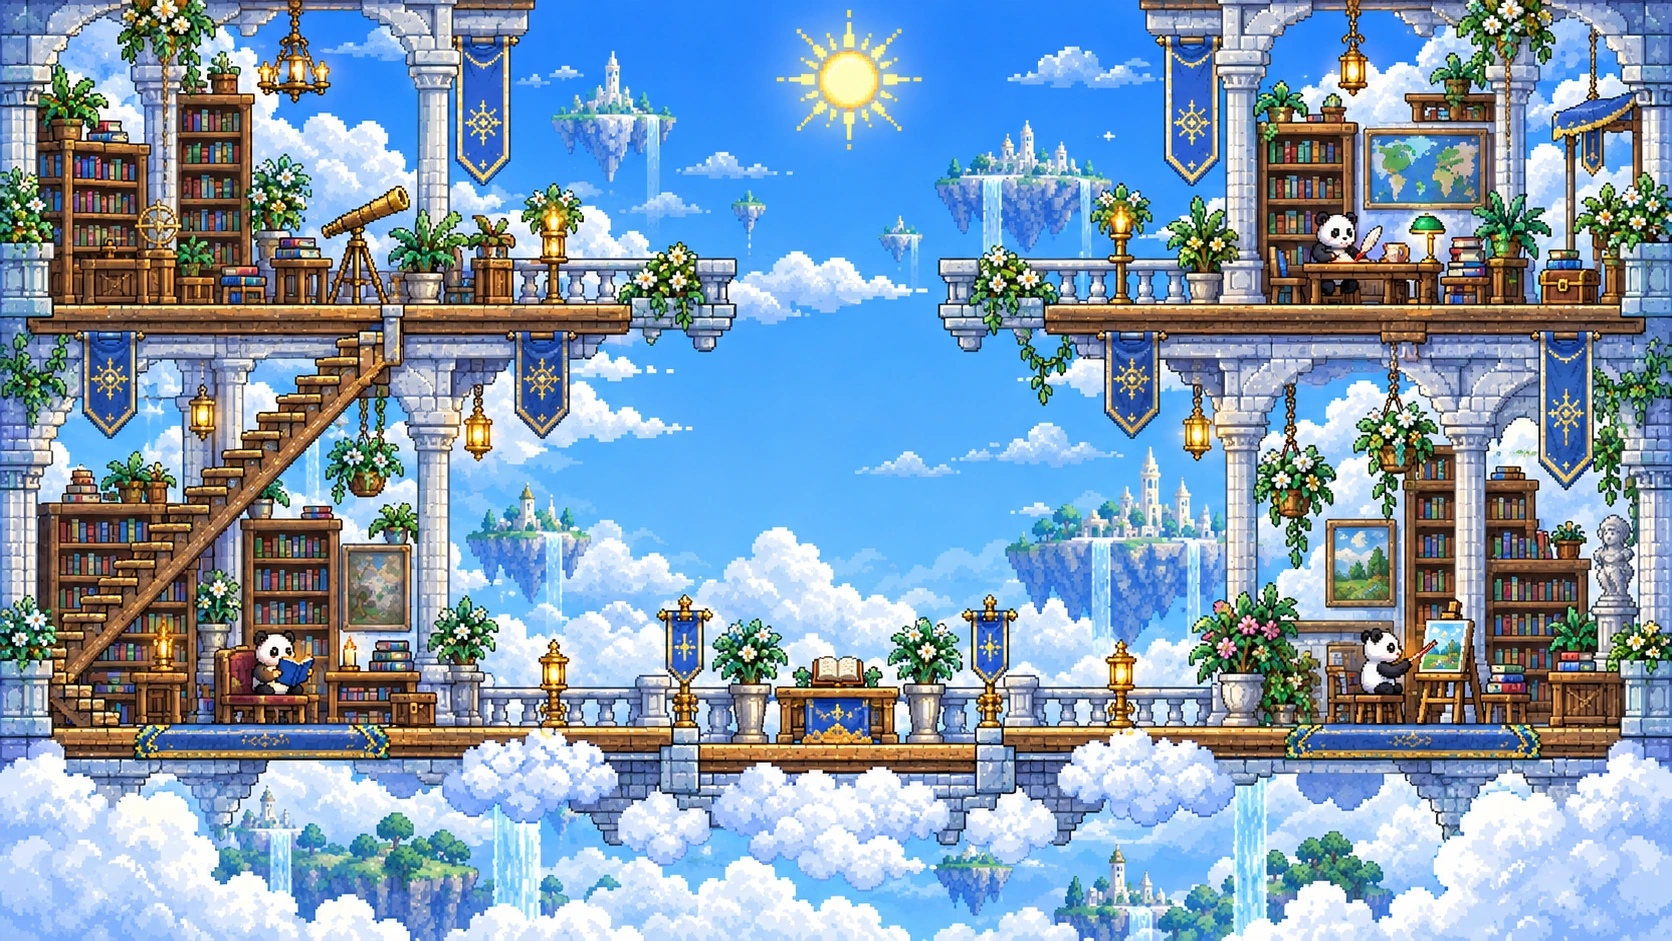
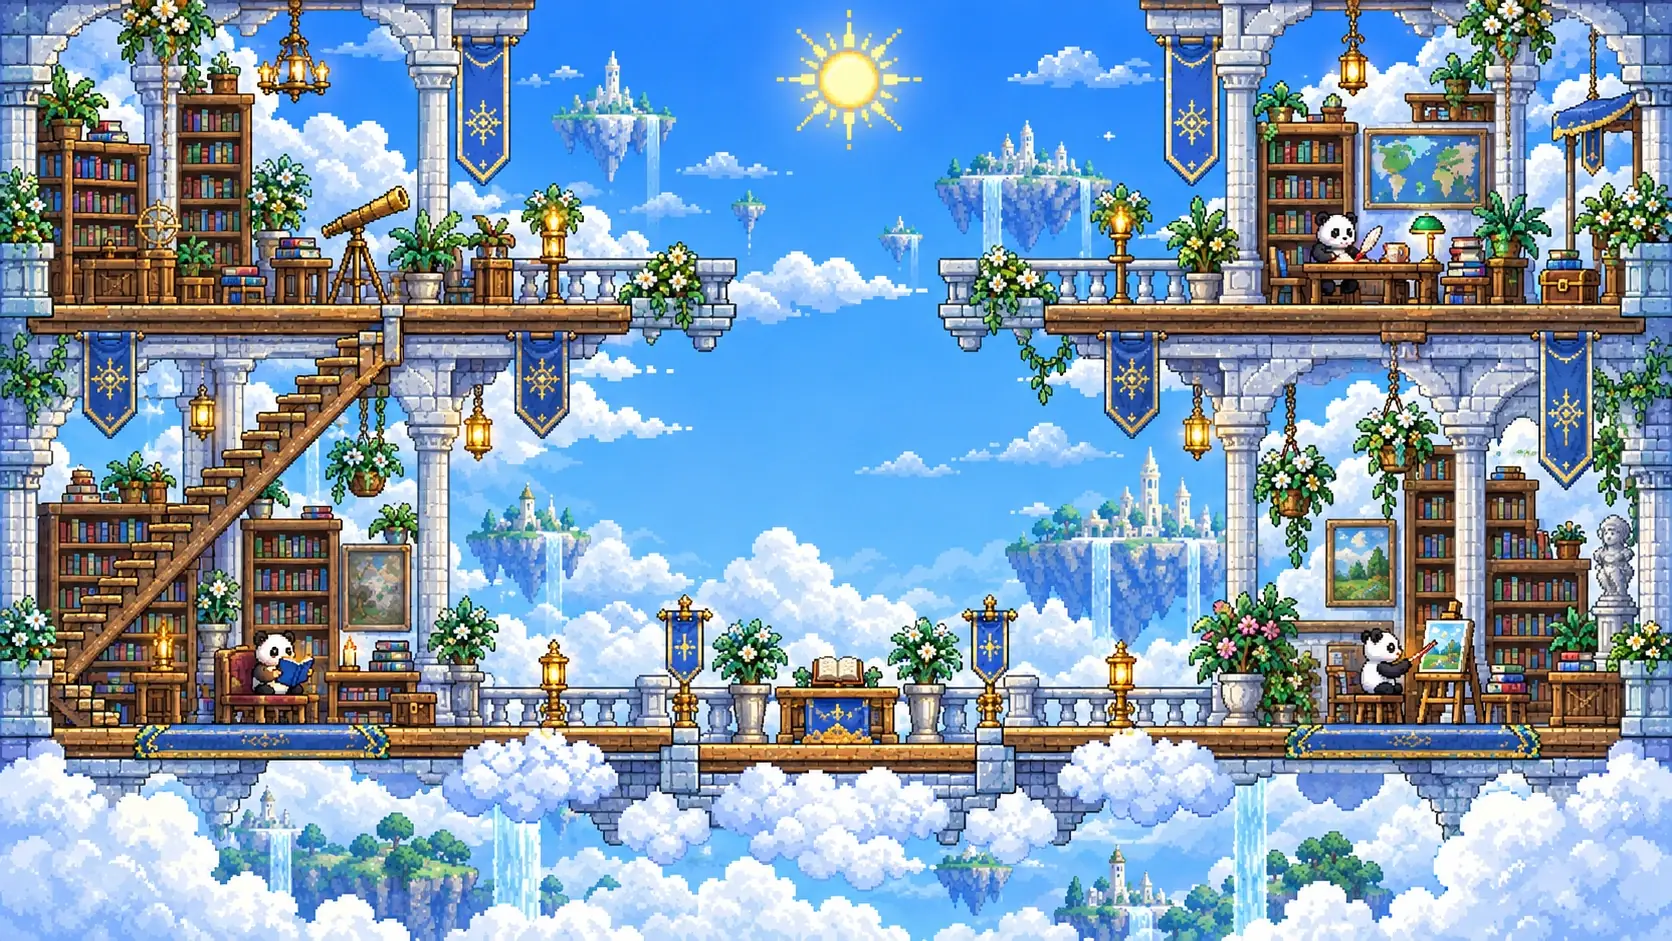
perf: reduce login image downloads and startup work
Avoid loading navigation images before resolving the login redirect. Compress scene artwork, add appropriately sized brand assets, and defer redundant canvas work. Add a cold-load regression check covering resource size, readiness, and image caching.

Changed region(s): [[0.6842, 0.1233, 0.7153, 0.1541]]

diff --git a/src/components/login/libraryActors.js b/src/components/login/libraryActors.js
@@ -56,7 +56,7 @@ export function createLibraryActors(context) {
     const key=`${phase}-${blink}-${cheer}`;
     if(!spriteCache.has(key)) {
       const sprite=document.createElement('canvas'); sprite.width=116; sprite.height=134;
-      const original=ctx; ctx=sprite.getContext('2d');
+      const original=ctx; ctx=sprite.getContext('2d', { willReadFrequently: true });
       bearPaint(12,130,1,phase/7,1,cheer,blink);
       const pixels=ctx.getImageData(0,0,116,134);
       for(let py=0;py<134;py++) for(let px=0;px<116;px++) {
@@ -76,7 +76,7 @@ export function createLibraryActors(context) {
   function glyph(letter,color,outline) {
     const key=letter+color;
     if(glyphCache.has(key)) return glyphCache.get(key);
-    const mask=document.createElement('canvas'), sample=mask.getContext('2d');
+    const mask=document.createElement('canvas'), sample=mask.getContext('2d', { willReadFrequently: true });
     sample.font='900 70px Arial'; mask.width=Math.ceil(sample.measureText(letter).width)+8; mask.height=82;
     sample.font='900 70px Arial'; sample.fillStyle='#ffffff'; sample.fillText(letter,4,70);
     const data=sample.getImageData(0,0,mask.width,mask.height), output=sample.createImageData(mask.width,mask.height);

diff --git a/src/components/login/useLibraryAnimation.js b/src/components/login/useLibraryAnimation.js
@@ -10,7 +10,7 @@ export function useLibraryAnimation(canvasRef, backdropUrl, theme) {
   let width = 0, height = 0, destroyed = false
 
   function draw() {
-    if (!scene || !width || !height) return
+    if (!ready.value || !scene || !width || !height) return
     const next = scene.draw(width, height, elapsed / 1000)
     const previousBox = hotspot.value
     if (!next || !previousBox || Object.keys(next).some(key => next[key] !== previousBox[key])) hotspot.value = next
@@ -68,11 +68,9 @@ export function useLibraryAnimation(canvasRef, backdropUrl, theme) {
     elapsed = 0
     scene?.dispose()
     scene = createLibraryScene(context, nextImage, theme.value)
-    syncAnimation()
     nextImage.onload = () => {
       if (destroyed || image !== nextImage) return
       ready.value = true
-      draw()
       syncAnimation()
     }
     nextImage.onerror = () => {
@@ -82,6 +80,7 @@ export function useLibraryAnimation(canvasRef, backdropUrl, theme) {
     }
     // Only the selected scene is requested; the other background stays unloaded.
     nextImage.src = backdropUrl.value
+    syncAnimation()
   }
 
   watch([backdropUrl, theme], loadBackdrop)

diff --git a/index.html b/index.html
@@ -2,7 +2,7 @@
 <html lang="zh-CN">
   <head>
     <meta charset="UTF-8" />
-    <link rel="icon" type="image/png" href="/brand/duqitongqu-jiayansiting.png" />
+    <link rel="icon" type="image/png" href="/brand/favicon.png" />
     <meta name="viewport" content="width=device-width, initial-scale=1.0" />
     <title>嘉言思听教务系统</title>
     <style>

diff --git a/src/components/BrandLogo.vue b/src/components/BrandLogo.vue
@@ -8,7 +8,7 @@
   width: 86px;
   height: 48px;
   flex: none;
-  background: #fff url('/brand/duqitongqu-jiayansiting.png') center / 142% auto no-repeat;
+  background: #fff url('../assets/brand-logo.webp') center / 142% auto no-repeat;
   border-radius: 8px;
 }
 </style>

diff --git a/src/main.js b/src/main.js
@@ -25,6 +25,8 @@ async function bootstrap() {
   const authStore = useAuthStore()
   authStore.loadFromStorage()
 
+  // Resolve the login redirect before mounting navigation and its images.
+  await router.isReady()
   app.mount('#app')
 }
 
